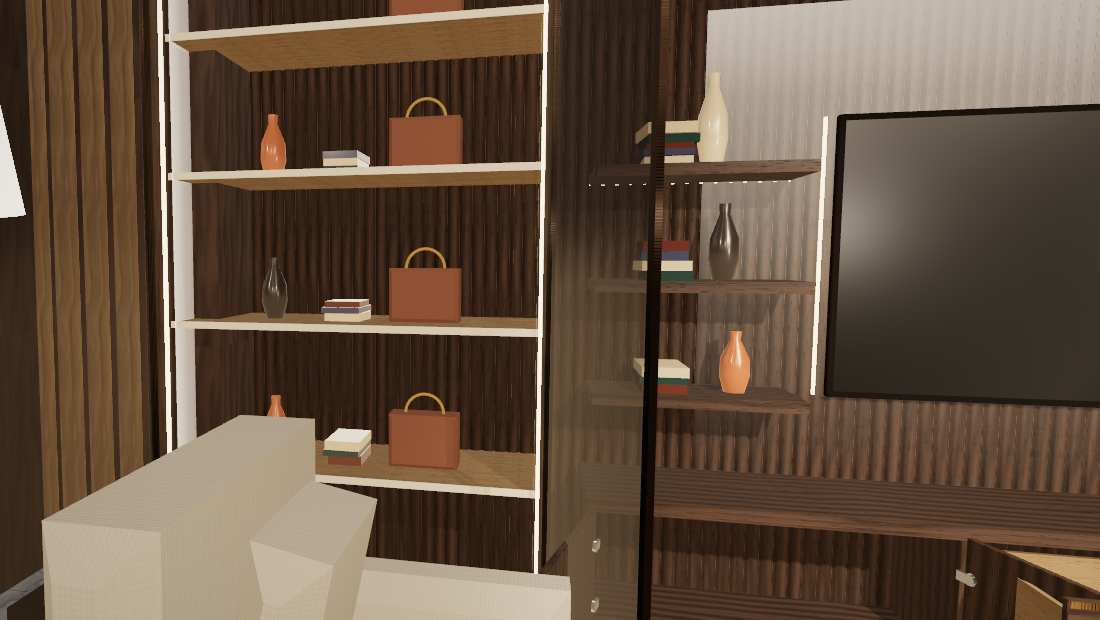
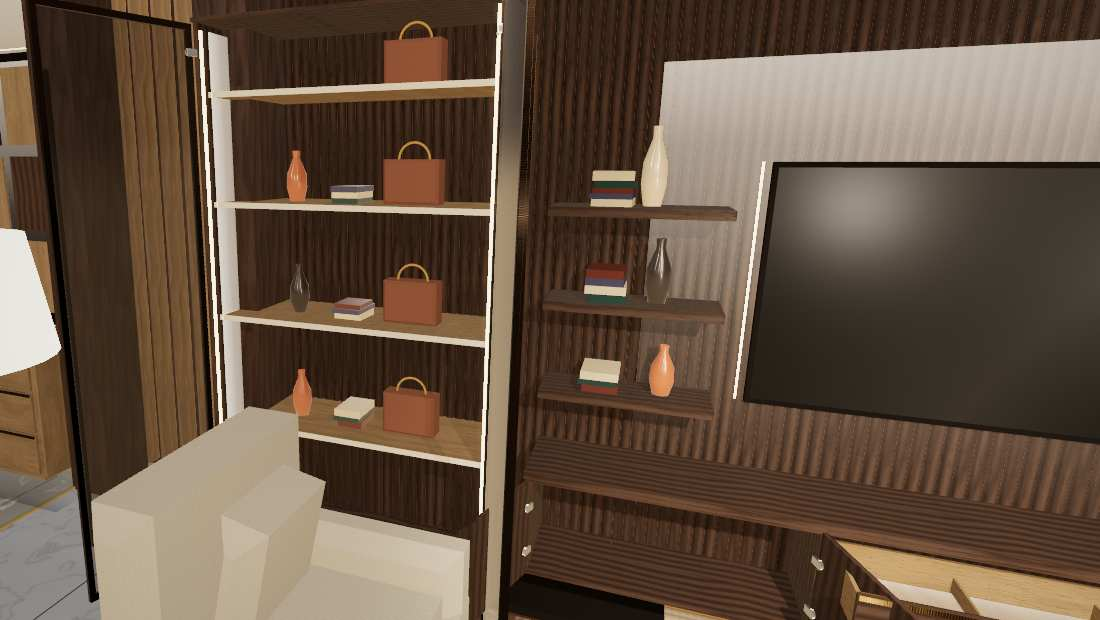
Showroom 3D: clamp HDR before bloom (Inf / NaN specular peaks produced a black frame in the Living bay at some canvas sizes on the high tier)
Claude-Session: https://claude.ai/code/session_017ZaR8CiDH3TQygKUjUtw2u

diff --git a/src/showroom3d/3d/post.js b/src/showroom3d/3d/post.js
@@ -11,6 +11,10 @@ export async function createBloom(renderer, scene, camera, { width, height, pixe
   const target = new THREE.WebGLRenderTarget(width * pixelRatio, height * pixelRatio, { type: THREE.HalfFloatType, samples: 4 });
   const composer = new EffectComposer(renderer, target); composer.setPixelRatio(pixelRatio); composer.setSize(width, height);
   composer.addPass(new RenderPass(scene, camera));
+  // HDR safety: a near-mirror specular peak (a polished floor / clearcoat catching the key spot exactly) can exceed the half-float range, become Inf / NaN and bloom into a black frame
+  // (seen in the Living bay at some canvas sizes). Clamp to a sane HDR ceiling and drop NaNs before the bloom chain.
+  composer.addPass(new ShaderPass({ uniforms: { tDiffuse: { value: null } }, vertexShader: 'varying vec2 vUv; void main(){ vUv = uv; gl_Position = projectionMatrix * modelViewMatrix * vec4(position, 1.0); }',
+    fragmentShader: 'uniform sampler2D tDiffuse; varying vec2 vUv; void main(){ vec4 c = texture2D(tDiffuse, vUv); vec3 x = min(c.rgb, vec3(48.0)); if (!(x.r == x.r)) x.r = 0.0; if (!(x.g == x.g)) x.g = 0.0; if (!(x.b == x.b)) x.b = 0.0; gl_FragColor = vec4(max(x, vec3(0.0)), c.a); }' }));
   const bloom = new UnrealBloomPass(new THREE.Vector2(width, height), 0.12, 0.5, 2.0);   // strength, radius, threshold
   composer.addPass(bloom); composer.addPass(new OutputPass());
   // colour grade + vignette AFTER tone mapping (display-referred): a per-room tint, a touch of contrast around mid grey and a soft vignette

diff --git a/src/showroom3d/scenes/products/living.js b/src/showroom3d/scenes/products/living.js
@@ -29,7 +29,7 @@ export function buildLiving({ M, tier, registry, reduced }) {
   // ---- slat wall panel (real geometry) + TV ----
   { const wall = new THREE.Mesh(flutedPanel(6.2, 3.3, 0.04, { pitch: 0.05, relief: 0.014, off: [0.2, 0.1] }).rotateY(Math.PI / 2), FL); wall.position.set(-2.96, 1.65, 0); wall.receiveShadow = true; wall.name = 'feature-wall'; group.add(wall); }
   kit.addStatic(placed(fin(0.03, 1.0, 1.74, { b: 0.004 }), { x: -2.905, y: 1.5 }), M.darkInterior);
-  { const sc = new THREE.Mesh(new THREE.PlaneGeometry(1.7, 0.956), new THREE.MeshStandardMaterial({ map: screenTexture(), roughness: 0.3, metalness: 0.1, envMap: M.stone.envMap, envMapIntensity: 0.5 })); sc.position.set(-2.888, 1.5, 0); sc.rotation.y = Math.PI / 2; sc.name = 'tv-screen'; group.add(sc); }
+  { const sc = new THREE.Mesh(new THREE.PlaneGeometry(1.7, 0.956), new THREE.MeshStandardMaterial({ map: screenTexture(), roughness: 0.62, metalness: 0, envMap: M.stone.envMap, envMapIntensity: 0.4 })); sc.position.set(-2.888, 1.5, 0); sc.rotation.y = Math.PI / 2; sc.name = 'tv-screen'; group.add(sc); }
   kit.led({ x: -2.93, y: 1.5, z: 0.9, len: 1.0, axis: 'y', thick: 0.01, levelOf: (s) => s.accentLevel(), washPlane: { w: 2.6, h: 1.8, pos: [-2.935, 1.5, 0], rot: [0, Math.PI / 2, 0] } });
   kit.led({ x: -2.93, y: 1.5, z: -0.9, len: 1.0, axis: 'y', thick: 0.01, levelOf: (s) => s.accentLevel() });
 
